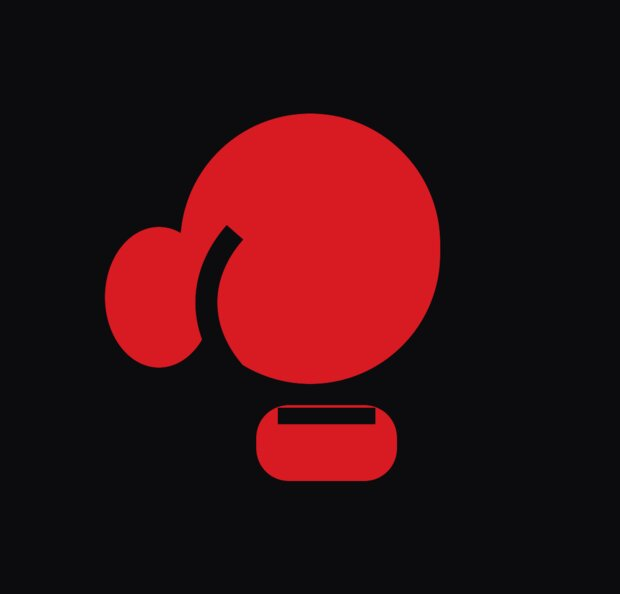
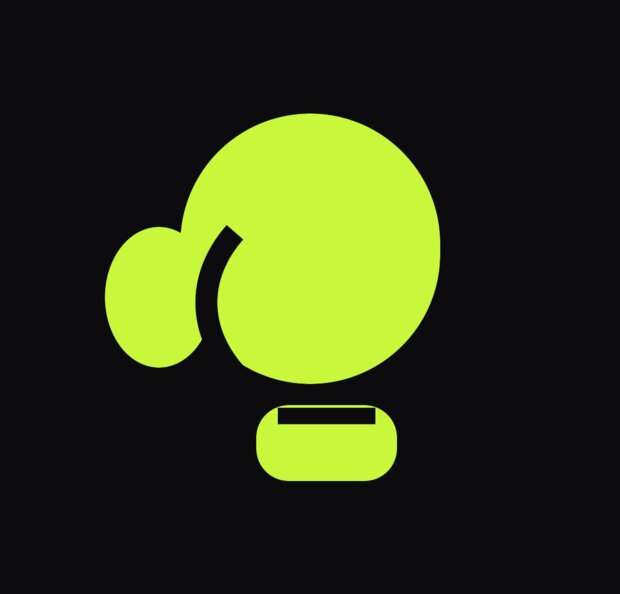
Nueva identidad visual: negro + volt, cero rojo — otro traje, mismos músculos
El dueño pidió romper el parecido con el gym original: mismas funciones
y módulos, identidad visual completamente nueva y moderna.

Sistema (tokens en globals.css — el sitio entero cambia con un bloque):
- Acento ROJO #d81a22 → VOLT #c8f73b (verde eléctrico), con escala
  completa (600/700/300/soft) y onbrand invertido a negro (texto sobre
  volt = contraste máximo, look deportivo actual).
- Degradado de marca, grilla tenue, glow de tarjetas, pulse-ring y la
  línea de acento de la transición: todos al nuevo acento.
- Barrido final: 0 hex rojos en src/ (grep d81a22|8f0f15|216 26 34…).
- themeColor del navegador y theme_color del manifest: negro puro.

Marca: guante regenerado en volt (icon.svg, brand-mark, opengraph) e
íconos/apple/maskable/emblema/splash derivados con ImageMagick.

Fotos: las 4 que faltaban (abs, dip, pantorrilla, triceps) generadas
neutras y las 15 recortadas a dimensión exacta; fachada ahora
panorámica 1600x900 con luces volt para el hero a pantalla completa.

Landing: boxeo pasa justo después de «qué hacemos» (protagonista de la
marca); hero sin backdrop-blur (regla del proyecto) y halo volt.

Service worker: CACHE_VERSION power-box-v9 (imágenes y CSS cambiaron,
la caché debe invalidarse). Test que pineaba la versión vieja,
actualizado.

Verificado: test:auth 1110/1110, lint, typecheck, build (85 páginas) y
build:install:check en verde. Los suites SQL no se tocaron (CI).

Changed region(s): [[0.1532, 0.1818, 0.7355, 0.8182]]

diff --git a/src/app/globals.css b/src/app/globals.css
@@ -1,12 +1,11 @@
 @import "tailwindcss";
 
 /* ============================================================
-   STRONG FITNESS GYM — sistema de diseño
+   POWER BOX GYM — sistema de diseño
    ------------------------------------------------------------
-   Identidad real del gimnasio: ROJO + NEGRO + BLANCO, como el
-   cartel iluminado del local: fondo negro de punta a punta y el
-   rojo de la banderola (#d81a22) como acento en fondos de
-   bloque, títulos, números, líneas y bordes.
+   Identidad: NEGRO + VOLT (verde eléctrico #c8f73b) + BLANCO.
+   Look de gimnasio de última generación: base negra pura y un
+   único acento eléctrico en títulos, números, líneas y bordes.
 
    IMPORTANTE: las páginas NO se pintan una por una. Todo el
    sitio se apoya en estos tokens, así que para cambiar el tema
@@ -28,19 +27,16 @@
   --color-mist: #c9c9d1;
   --color-fog: #8e8e99;
 
-  /* --- Rojo de marca (banderola y zócalo del local) --- */
-  --color-brand: #d81a22;
-  --color-brand-600: #b8141b;
-  --color-brand-700: #8f0f15;
-  /* Rojo claro: texto e íconos chicos apoyados sobre rojo oscuro.
-     (#d81a22 sobre #0c0c0e sólo llega a 3.6:1, así que el rojo
-     puro se reserva para números grandes, botones, fondos y
-     bordes; el texto menudo usa este.) */
-  --color-brand-300: #ff6b72;
-  /* Rojo oscuro: fondo de bloques y chips. Nunca rosa claro. */
-  --color-brand-soft: #3d0e13;
-  /* Texto que va encima del rojo. */
-  --color-onbrand: #ffffff;
+  /* --- Volt de marca (acento eléctrico) --- */
+  --color-brand: #c8f73b;
+  --color-brand-600: #a8d92e;
+  --color-brand-700: #5f7a1d;
+  /* Volt claro: texto e íconos chicos apoyados sobre fondos oscuros. */
+  --color-brand-300: #e4ff8f;
+  /* Fondo de bloques y chips en tono oliva profundo. */
+  --color-brand-soft: #1c2608;
+  /* Texto que va encima del volt: negro, contraste máximo. */
+  --color-onbrand: #0c0c0e;
 
   /* --- Estados (no son identidad: sirven para avisos) --- */
   --color-alert: #fb923c;
@@ -96,13 +92,13 @@
 
 @keyframes pulse-ring {
   0% {
-    box-shadow: 0 0 0 0 rgb(216 26 34 / 0.45);
+    box-shadow: 0 0 0 0 rgb(200 247 59 / 0.4);
   }
   70% {
-    box-shadow: 0 0 0 16px rgb(216 26 34 / 0);
+    box-shadow: 0 0 0 16px rgb(200 247 59 / 0);
   }
   100% {
-    box-shadow: 0 0 0 0 rgb(216 26 34 / 0);
+    box-shadow: 0 0 0 0 rgb(200 247 59 / 0);
   }
 }
 
@@ -412,7 +408,7 @@
   }
 }
 
-/* Hilo de brasas bajo el texto: la única línea recta del efecto. */
+/* Hilo eléctrico bajo el texto: la única línea recta del efecto. */
 .fire-line {
   display: block;
   width: 9rem;
@@ -421,9 +417,9 @@
   background-image: linear-gradient(
     90deg,
     transparent 0%,
-    rgb(216 26 34 / 0.9) 25%,
-    rgb(251 191 36 / 1) 50%,
-    rgb(216 26 34 / 0.9) 75%,
+    rgb(200 247 59 / 0.9) 25%,
+    rgb(255 255 255 / 1) 50%,
+    rgb(200 247 59 / 0.9) 75%,
     transparent 100%
   );
   background-size: 200% 100%;
@@ -633,9 +629,9 @@
   color: var(--color-brand-300);
 }
 
-/* Texto con degradado rojo, para resaltar una palabra del título */
+/* Texto con degradado volt, para resaltar una palabra del título */
 @utility text-gradient-brand {
-  background-image: linear-gradient(100deg, #ff4d55 0%, #d81a22 48%, #8f0f15 100%);
+  background-image: linear-gradient(100deg, #e9ff9e 0%, #c8f73b 45%, #5f7a1d 100%);
   background-clip: text;
   -webkit-background-clip: text;
   color: transparent;
@@ -650,8 +646,8 @@
 
 /* Textura de fondo: grilla tenue sobre superficie oscura */
 @utility bg-grid {
-  background-image: linear-gradient(rgb(216 26 34 / 0.14) 1px, transparent 1px),
-    linear-gradient(90deg, rgb(216 26 34 / 0.14) 1px, transparent 1px);
+  background-image: linear-gradient(rgb(200 247 59 / 0.09) 1px, transparent 1px),
+    linear-gradient(90deg, rgb(200 247 59 / 0.09) 1px, transparent 1px);
   background-size: 62px 62px;
 }
 
@@ -663,11 +659,11 @@
   background-size: 62px 62px;
 }
 
-/* Resalte rojo para tarjetas destacadas (ej: el plan más elegido) */
+/* Resalte volt para tarjetas destacadas (ej: el plan más elegido) */
 @utility glow-brand {
   box-shadow:
-    0 0 0 1px rgb(216 26 34 / 0.5),
-    0 18px 60px -22px rgb(216 26 34 / 0.45);
+    0 0 0 1px rgb(200 247 59 / 0.5),
+    0 18px 60px -22px rgb(200 247 59 / 0.35);
 }
 
 @utility no-scrollbar {

diff --git a/src/app/[locale]/opengraph-image.tsx b/src/app/[locale]/opengraph-image.tsx
@@ -31,7 +31,7 @@ export default function Image() {
           justifyContent: "space-between",
           background: "#0c0c0e",
           backgroundImage:
-            "radial-gradient(900px 500px at 88% 8%, #8f0f15 0%, rgba(143,15,21,0) 60%)",
+            "radial-gradient(900px 500px at 88% 8%, #2c400b 0%, rgba(44,64,11,0) 60%)",
           padding: "72px 80px",
           fontFamily: "Anton",
         }}
@@ -39,9 +39,9 @@ export default function Image() {
         {/* Emblema + nombre */}
         <div style={{ display: "flex", alignItems: "center", gap: 28 }}>
           <svg width="104" height="104" viewBox="0 0 100 100">
-            <rect x="26" y="16" width="48" height="50" rx="24" fill="#d81a22" />
-            <ellipse cx="22" cy="50" rx="10" ry="13" fill="#d81a22" />
-            <rect x="40" y="70" width="26" height="14" rx="6" fill="#d81a22" />
+            <rect x="26" y="16" width="48" height="50" rx="24" fill="#c8f73b" />
+            <ellipse cx="22" cy="50" rx="10" ry="13" fill="#c8f73b" />
+            <rect x="40" y="70" width="26" height="14" rx="6" fill="#c8f73b" />
             <path
               d="M36 38 C29 46 29 56 36 64"
               stroke="#0c0c0e"
@@ -99,7 +99,7 @@ export default function Image() {
             style={{
               fontFamily: "Anton",
               fontSize: 104,
-              color: "#d81a22",
+              color: "#c8f73b",
               lineHeight: 0.92,
               letterSpacing: "-0.01em",
             }}

diff --git a/src/components/sections/hero.tsx b/src/components/sections/hero.tsx
@@ -41,7 +41,7 @@ export function Hero({
     <section className="relative isolate overflow-hidden bg-night">
       {/* Fondo */}
       <div className="absolute inset-0 -z-10">
-        <div className="absolute inset-0 bg-[radial-gradient(1100px_600px_at_15%_100%,#7a0f14_0%,transparent_62%)]" />
+        <div className="absolute inset-0 bg-[radial-gradient(1100px_600px_at_15%_100%,#22330a_0%,transparent_62%)]" />
 
         {fachada ? (
           <Image
@@ -64,7 +64,7 @@ export function Hero({
           <div className="max-w-3xl">
             {/* Dónde estamos */}
             <Reveal>
-              <span className="inline-flex items-center gap-2 rounded-full border border-brand/45 bg-brand/15 py-1.5 pr-4 pl-1.5 text-[0.75rem] font-semibold text-white backdrop-blur-sm sm:text-[0.8125rem]">
+              <span className="inline-flex items-center gap-2 rounded-full border border-brand/45 bg-brand/15 py-1.5 pr-4 pl-1.5 text-[0.75rem] font-semibold text-white sm:text-[0.8125rem]">
                 <span className="grid size-6 place-items-center rounded-full bg-brand text-onbrand">
                   <MapPin className="size-3.5" aria-hidden="true" />
                 </span>

diff --git a/src/components/layout/brand-mark.tsx b/src/components/layout/brand-mark.tsx
@@ -16,9 +16,9 @@ export function BrandMark({ className }: { className?: string }) {
       focusable="false"
     >
       {/* Guante: puño redondeado + pulgar + muñequera, separados del fondo. */}
-      <rect x="26" y="16" width="48" height="50" rx="24" fill="#d81a22" />
-      <ellipse cx="22" cy="50" rx="10" ry="13" fill="#d81a22" />
-      <rect x="40" y="70" width="26" height="14" rx="6" fill="#d81a22" />
+      <rect x="26" y="16" width="48" height="50" rx="24" fill="#c8f73b" />
+      <ellipse cx="22" cy="50" rx="10" ry="13" fill="#c8f73b" />
+      <rect x="40" y="70" width="26" height="14" rx="6" fill="#c8f73b" />
       {/* Costura del pulgar y línea del puño, en el color del fondo oscuro. */}
       <path
         d="M36 38 C29 46 29 56 36 64"

diff --git a/src/app/api/admin/classes/catalog/route.ts b/src/app/api/admin/classes/catalog/route.ts
@@ -58,7 +58,7 @@ const messages: Record<string, [string, number]> = {
   INVALID_INTENSITY: ["Elegí la intensidad: baja, media o alta.", 422],
   INVALID_DURATION: ["La duración de la clase debe estar entre 10 y 180 minutos.", 422],
   INVALID_CAPACITY: ["El cupo debe estar entre 1 y 200 personas.", 422],
-  INVALID_COLOR: ["El color tiene que ser un código como #d81a22.", 422],
+  INVALID_COLOR: ["El color tiene que ser un código como #c8f73b.", 422],
   INVALID_ORDER: ["El orden debe estar entre 0 y 9999.", 422],
   CLASS_EXISTS: ["Ya existe una disciplina con ese identificador. Elegí otro.", 409],
   NOT_FOUND: ["No encontramos esa disciplina. Recargá antes de reintentar.", 404],

diff --git a/src/app/[locale]/page.tsx b/src/app/[locale]/page.tsx
@@ -74,8 +74,8 @@ export default async function HomePage({ params }: { params: Promise<{ locale: s
         showBoxing={visibility.showBoxing}
         showZumba={visibility.showZumba}
       />
-      <ClassesGrid locale={safeLocale} />
       {visibility.showBoxing ? <Boxing locale={safeLocale} /> : null}
+      <ClassesGrid locale={safeLocale} />
       <Plans locale={safeLocale} activeClassSlugs={activeClassSlugs} />
       <Supplements locale={safeLocale} />
       <Gallery locale={safeLocale} />

diff --git a/src/components/admin/coaches-catalog.tsx b/src/components/admin/coaches-catalog.tsx
@@ -334,7 +334,7 @@ export function CoachesCatalog({ initial }: { initial: CoachesCatalog }) {
                   >
                     <input
                       type="checkbox"
-                      className="size-4 accent-[var(--color-brand,#d81a22)]"
+                      className="size-4 accent-[var(--color-brand,#c8f73b)]"
                       checked={checked}
                       disabled={busy}
                       onChange={() => toggleSpecialty(item.slug)}

diff --git a/src/app/[locale]/panel/ayuda/page.tsx b/src/app/[locale]/panel/ayuda/page.tsx
@@ -169,7 +169,7 @@ values
   ('coa_xx', 'nombre', 'Nombre Apellido',
    'Head Coach', 'Head Coach',
    'Bio en español', 'Bio in English',
-   array['boxeo','pesas'], 'NA', '#d81a22', 1, true);`}
+   array['boxeo','pesas'], 'NA', '#c8f73b', 1, true);`}
         </pre>
         <p className="mt-2 text-fog">
           O pedime ayuda acá mismo y lo armamos juntos.

diff --git a/src/app/manifest.ts b/src/app/manifest.ts
@@ -30,7 +30,7 @@ export default function manifest(): MetadataRoute.Manifest {
     display_override: ["standalone", "browser"],
     orientation: "portrait",
     background_color: "#0c0c0e",
-    theme_color: "#d81a22",
+    theme_color: "#0c0c0e",
     lang: "es",
     dir: "ltr",
     categories: ["health", "fitness", "sports"],

diff --git a/public/sw.js b/public/sw.js
@@ -16,7 +16,7 @@
  * Versión del caché: cambiarla fuerza al SW a descartar todo el
  * caché viejo en la próxima activación.
  */
-const CACHE_VERSION = "strong-gym-v8";
+const CACHE_VERSION = "power-box-v9";
 const ASSET_CACHE = `${CACHE_VERSION}-assets`;
 const PAGE_CACHE = `${CACHE_VERSION}-pages`;
 

diff --git a/src/lib/exercises/terms.ts b/src/lib/exercises/terms.ts
@@ -317,7 +317,7 @@ export function equipmentGroupOf(slug: string | null): string {
  * tarjeta, no compite con la foto.
  */
 export const EQUIPMENT_TONES: Record<string, string> = {
-  peso_libre: "#d81a22",
+  peso_libre: "#c8f73b",
   maquinas: "#6f8fb8",
   poleas: "#d9a441",
   cuerpo: "#6fbf9f",

diff --git a/src/components/admin/classes-catalog.tsx b/src/components/admin/classes-catalog.tsx
@@ -102,7 +102,7 @@ const emptyDraft = (classes: AdminClass[]): Draft => ({
   intensity: "medium",
   durationMin: "60",
   capacity: "20",
-  color: "#d81a22",
+  color: "#c8f73b",
   sortOrder: String(
     classes.reduce((max, item) => Math.max(max, item.sort_order), 0) + 10,
   ),
